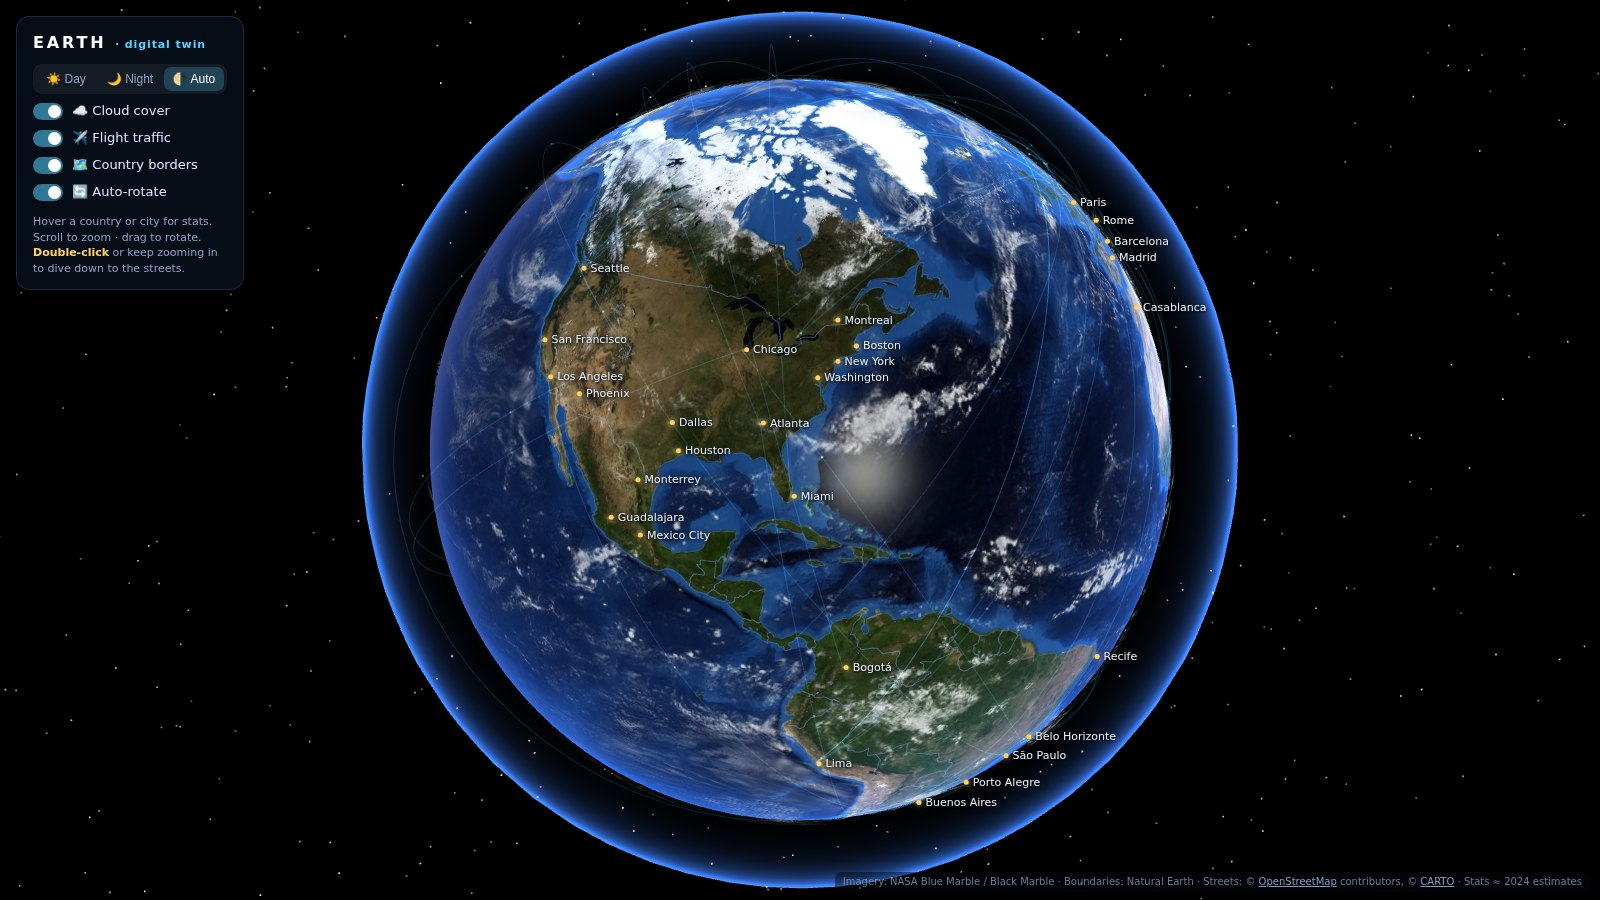
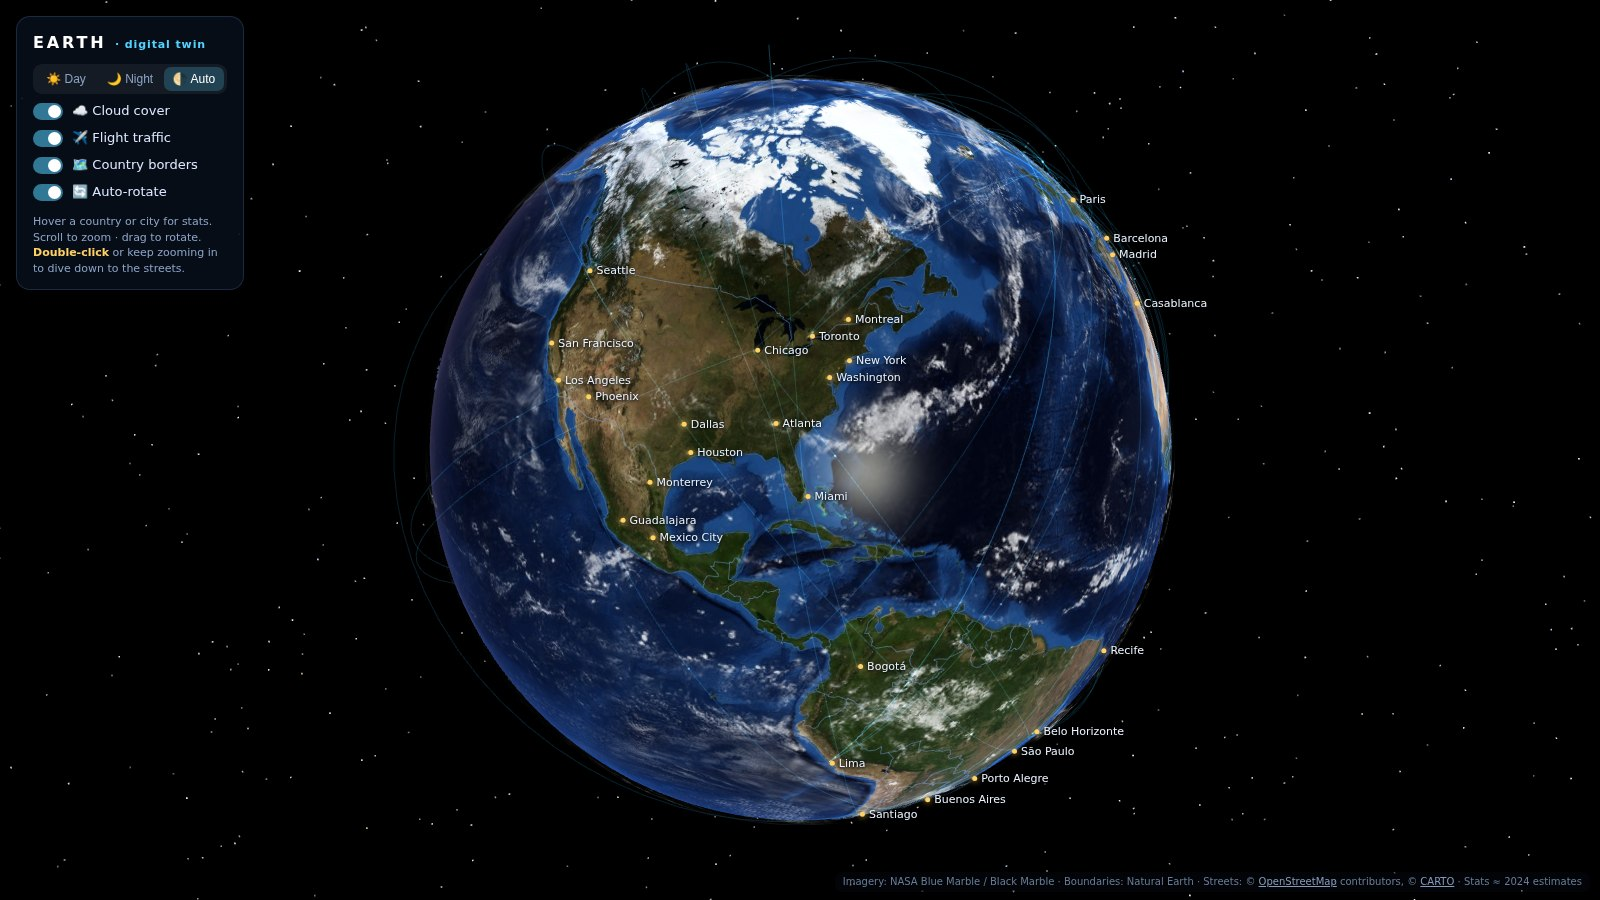
Remove the blue atmosphere ring around the globe
Drop the detached additive glow shell and tighten the in-surface
limb haze (sharper fresnel falloff, lower weight) so the planet
edge reads crisp against space. Refresh README screenshots.

Claude-Session: https://claude.ai/code/session_01HbDVqz1kXxnM4owjDML6gC

Changed region(s): [[0.2188, 0.0, 0.7812, 0.9956]]

diff --git a/js/app.js b/js/app.js
@@ -207,37 +207,15 @@
         // sun glint on water
         float spec = pow(max(dot(reflect(-sunDir, n), viewDir), 0.0), 42.0);
         col += vec3(0.9, 0.88, 0.75) * spec * water * dayness * 0.6;
-        // atmospheric rim
-        float fres = pow(1.0 - max(dot(n, viewDir), 0.0), 2.6);
-        col += vec3(0.22, 0.48, 1.0) * fres * (0.22 + 0.55 * dayness);
+        // faint atmospheric haze right at the limb (no detached glow ring)
+        float fres = pow(1.0 - max(dot(n, viewDir), 0.0), 4.0);
+        col += vec3(0.22, 0.48, 1.0) * fres * (0.08 + 0.25 * dayness);
 
         gl_FragColor = vec4(col, 1.0);
       }`,
   });
   const earth = new THREE.Mesh(new THREE.SphereGeometry(R, 128, 96), earthMat);
   scene.add(earth);
-
-  /* ── Atmosphere glow ─────────────────────────────────────────── */
-  const atmo = new THREE.Mesh(
-    new THREE.SphereGeometry(R * 1.16, 64, 48),
-    new THREE.ShaderMaterial({
-      side: THREE.BackSide, transparent: true, depthWrite: false,
-      blending: THREE.AdditiveBlending,
-      vertexShader: `
-        varying vec3 vN;
-        void main() {
-          vN = normalize(normalMatrix * normal);
-          gl_Position = projectionMatrix * modelViewMatrix * vec4(position, 1.0);
-        }`,
-      fragmentShader: `
-        varying vec3 vN;
-        void main() {
-          float i = pow(0.72 - dot(vN, vec3(0.0, 0.0, -1.0)), 3.5);
-          gl_FragColor = vec4(0.24, 0.5, 1.0, 1.0) * i;
-        }`,
-    })
-  );
-  scene.add(atmo);
 
   /* ── Clouds ──────────────────────────────────────────────────── */
   const cloudMat = new THREE.MeshLambertMaterial({
